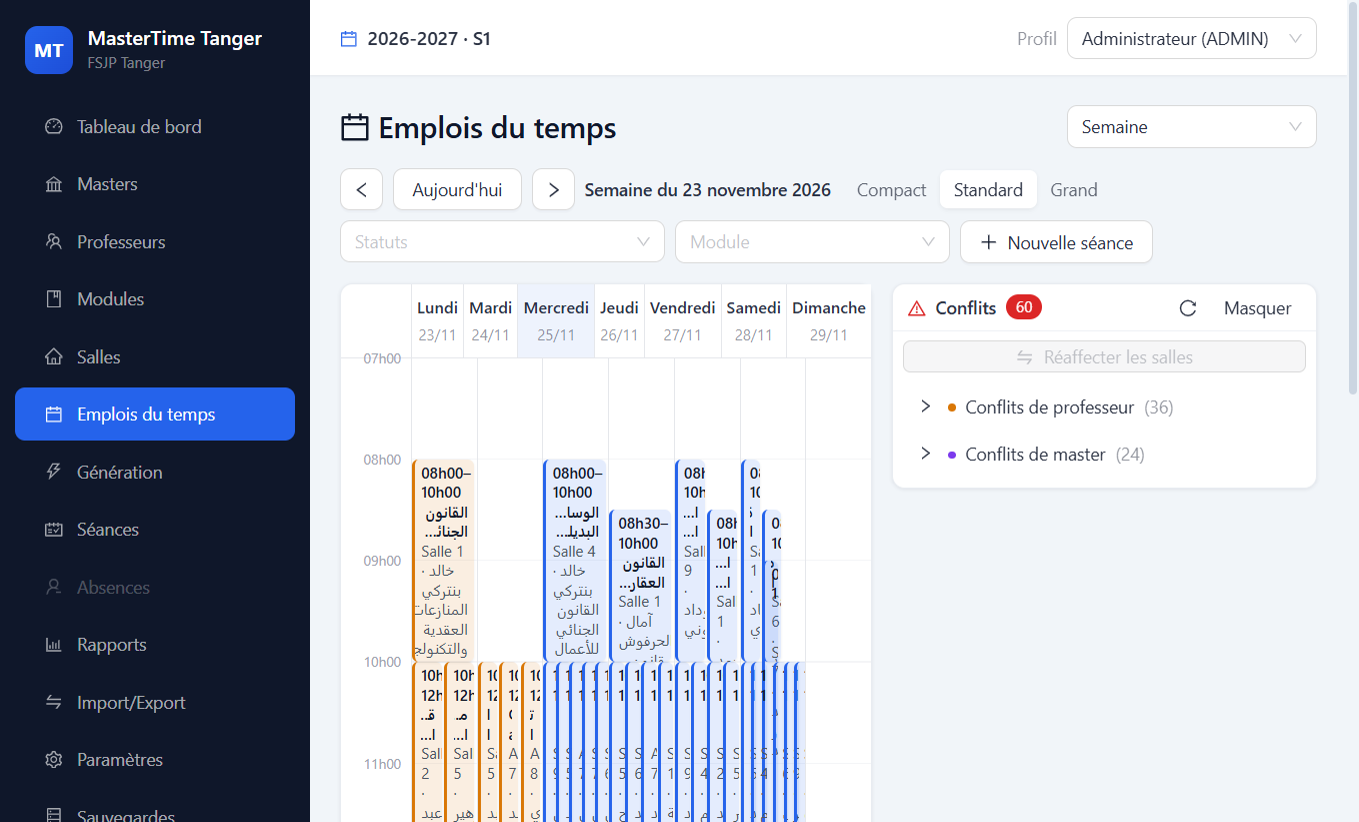
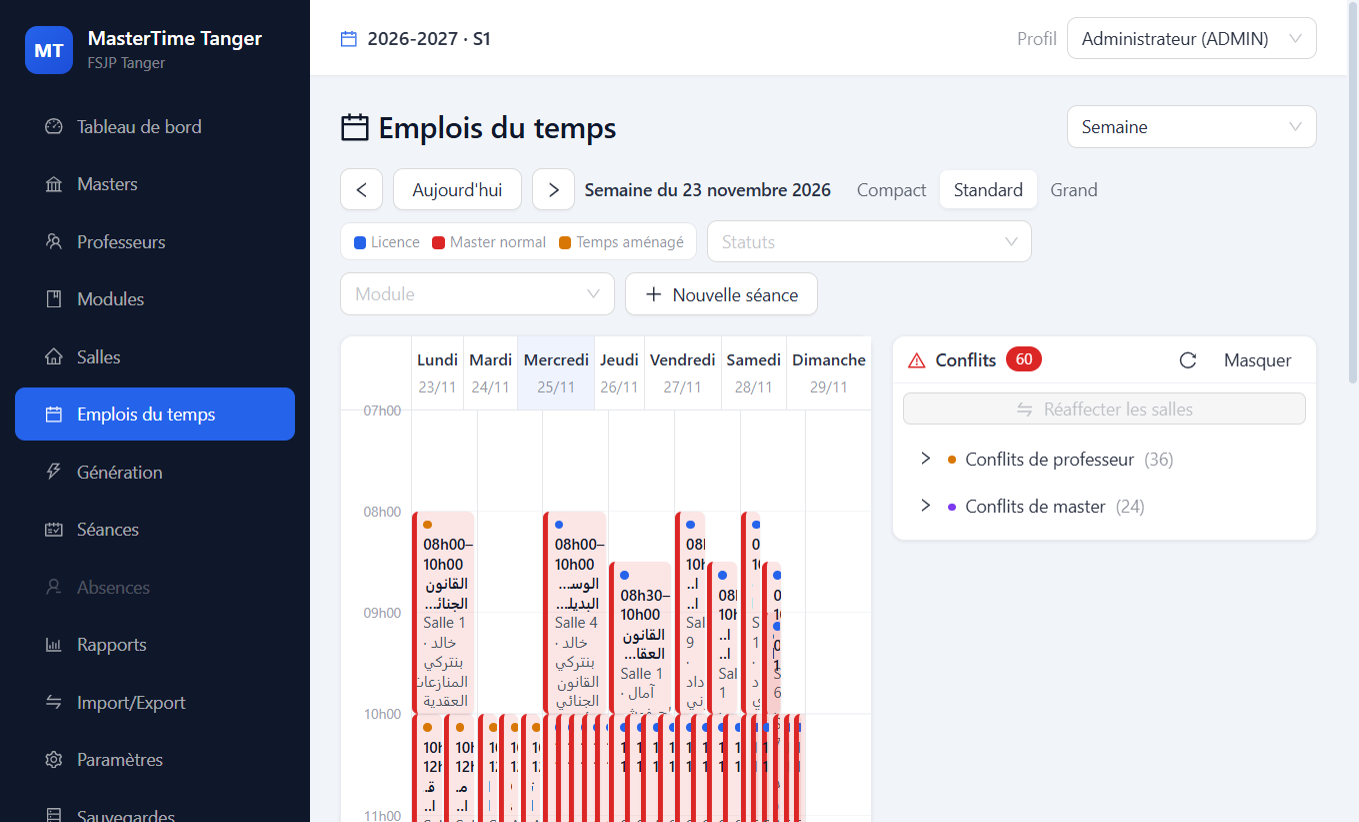
Code couleur par cycle dans l'EDT : Licence bleu, Master rouge, temps aménagé or — légende personnalisable
Generated with [Devin](https://devin.ai)

diff --git a/src/pages/TimetablePage.tsx b/src/pages/TimetablePage.tsx
@@ -17,11 +17,13 @@ import {
   Calendar,
   Card,
   Collapse,
+  ColorPicker,
   DatePicker,
   Empty,
   Form,
   Input,
   Modal,
+  Popover,
   Segmented,
   Select,
   Skeleton,
@@ -97,6 +99,39 @@ const ZOOM_SCALE: Record<ZoomLevel, number> = {
   standard: 1.35,
   large: 1.7,
 };
+
+/**
+ * Couleurs des cycles dans la grille hebdo — personnalisables,
+ * persistées en localStorage (préférence utilisateur, pas de schéma).
+ */
+interface TtColors {
+  licence: string;
+  normal: string;
+  amenage: string;
+}
+const DEFAULT_TT_COLORS: TtColors = {
+  licence: '#2563EB',
+  normal: '#DC2626',
+  amenage: '#D97706',
+};
+const TT_COLORS_KEY = 'mt.tt.colors';
+
+function loadTtColors(): TtColors {
+  try {
+    const raw = localStorage.getItem(TT_COLORS_KEY);
+    if (raw) {
+      const p = JSON.parse(raw) as Partial<TtColors>;
+      return {
+        licence: typeof p.licence === 'string' ? p.licence : '#2563EB',
+        normal: typeof p.normal === 'string' ? p.normal : '#DC2626',
+        amenage: typeof p.amenage === 'string' ? p.amenage : '#D97706',
+      };
+    }
+  } catch {
+    // JSON corrompu : retour aux couleurs par défaut.
+  }
+  return DEFAULT_TT_COLORS;
+}
 const HOURS = Array.from(
   { length: (DAY_END - DAY_START) / 60 + 1 },
   (_, i) => DAY_START + i * 60,
@@ -145,12 +180,14 @@ function SessionBlock(props: {
   session: Lane;
   highlight: boolean;
   highlightColor: string;
+  /** Couleur du cycle (master normal / temps aménagé). */
+  cycle: string;
   z: number;
   onClick: () => void;
 }): React.JSX.Element | null {
-  const { session: s, highlight, highlightColor, z, onClick } = props;
+  const { session: s, highlight, highlightColor, cycle, z, onClick } = props;
   const { t } = useTranslation();
-  const color = STATUS_COLORS[s.effective_status];
+  const statusColor = STATUS_COLORS[s.effective_status];
   // Clip à l'axe 07:00–20:00 (séance débordante ou hors axe).
   const startC = Math.max(s.start_min, DAY_START);
   const endC = Math.min(s.end_min, DAY_END);
@@ -176,19 +213,33 @@ function SessionBlock(props: {
         height,
         left: `${s.lane * widthPct}%`,
         width: `calc(${widthPct}% - 2px)`,
-        background: `${color}1F`,
-        borderLeft: `3px solid ${color}`,
+        background: `${cycle}1F`,
+        borderLeft: `4px solid ${cycle}`,
         borderRadius: 5,
         padding: '3px 5px',
         overflow: 'hidden',
         cursor: 'pointer',
         fontSize,
         lineHeight: 1.3,
+        opacity: s.effective_status === 'ANNULEE' ? 0.55 : 1,
         outline: highlight ? `2px solid ${highlightColor}` : 'none',
         zIndex: highlight ? 3 : 1,
       }}
     >
       <div style={{ fontWeight: 600, color: '#111827' }}>
+        {/* Pastille statut : la couleur du bloc code le cycle. */}
+        <span
+          title={t(`sessionStatus.${s.effective_status}`)}
+          style={{
+            display: 'inline-block',
+            width: 7,
+            height: 7,
+            borderRadius: '50%',
+            background: statusColor,
+            marginRight: 5,
+            verticalAlign: 1,
+          }}
+        />
         {minToHHMM(s.start_min)}–{minToHHMM(s.end_min)}
       </div>
       <div
@@ -232,9 +283,11 @@ function SessionBlock(props: {
 
 function OccupancyBlock(props: {
   occ: OccupancyRow;
+  /** Couleur du cycle Licence. */
+  color: string;
   z: number;
 }): React.JSX.Element | null {
-  const { occ, z } = props;
+  const { occ, color, z } = props;
   const startC = Math.max(occ.start_min, DAY_START);
   const endC = Math.min(occ.end_min, DAY_END);
   if (endC - startC <= 0) return null;
@@ -251,14 +304,14 @@ function OccupancyBlock(props: {
           height,
           left: 1,
           right: 1,
-          background: '#4B55631F',
-          borderLeft: '3px solid #4B5563',
+          background: `${color}1F`,
+          borderLeft: `4px solid ${color}`,
           borderRadius: 5,
           padding: '2px 4px',
           overflow: 'hidden',
           fontSize: z > 1 ? 12 : 11,
           lineHeight: 1.25,
-          color: '#4B5563',
+          color: '#374151',
           // Zone bloquée : ni création ni détail — pas le curseur « cell ».
           cursor: 'default',
         }}
@@ -279,6 +332,15 @@ export function TimetablePage(): React.JSX.Element {
   const [scope, setScope] = useState<Scope>('week');
   const [zoom, setZoom] = useState<ZoomLevel>('standard');
   const z = ZOOM_SCALE[zoom];
+  // Couleurs des cycles (Licence / Master normal / temps aménagé).
+  const [ttColors, setTtColors] = useState<TtColors>(loadTtColors);
+  useEffect(() => {
+    try {
+      localStorage.setItem(TT_COLORS_KEY, JSON.stringify(ttColors));
+    } catch {
+      // Stockage indisponible : les couleurs restent en mémoire.
+    }
+  }, [ttColors]);
   // Aperçu « créneau possible » suivant la souris sur la grille hebdo.
   const [ghost, setGhost] = useState<{
     dayKey: string;
@@ -876,7 +938,12 @@ export function TimetablePage(): React.JSX.Element {
               }}
             >
               {dayOcc.map((o) => (
-                <OccupancyBlock key={`occ-${o.id}`} occ={o} z={z} />
+                <OccupancyBlock
+                  key={`occ-${o.id}`}
+                  occ={o}
+                  color={ttColors.licence}
+                  z={z}
+                />
               ))}
               {daySessions.map((s) => (
                 <SessionBlock
@@ -885,6 +952,11 @@ export function TimetablePage(): React.JSX.Element {
                   highlight={conflictIds.has(s.id)}
                   highlightColor={
                     conflictKind ? KIND_COLORS[conflictKind] : KIND_COLORS.ROOM
+                  }
+                  cycle={
+                    s.master.temps_amenage === 1
+                      ? ttColors.amenage
+                      : ttColors.normal
                   }
                   z={z}
                   onClick={() => void openSession(s.id)}
@@ -1476,6 +1548,74 @@ export function TimetablePage(): React.JSX.Element {
               label: t(`timetable.zoom.${lvl}`),
             }))}
           />
+        )}
+        {isWeekGrid && (
+          <Popover
+            trigger="click"
+            placement="bottomRight"
+            title={t('timetable.legend.title')}
+            content={
+              <Space direction="vertical" size={8}>
+                {(['licence', 'normal', 'amenage'] as const).map((k) => (
+                  <div
+                    key={k}
+                    style={{
+                      display: 'flex',
+                      justifyContent: 'space-between',
+                      alignItems: 'center',
+                      gap: 16,
+                    }}
+                  >
+                    <Text style={{ fontSize: 12 }}>
+                      {t(`timetable.legend.${k}`)}
+                    </Text>
+                    <ColorPicker
+                      size="small"
+                      value={ttColors[k]}
+                      onChange={(c) =>
+                        setTtColors({ ...ttColors, [k]: c.toHexString() })
+                      }
+                    />
+                  </div>
+                ))}
+                <Button
+                  size="small"
+                  onClick={() => setTtColors(DEFAULT_TT_COLORS)}
+                >
+                  {t('timetable.legend.reset')}
+                </Button>
+              </Space>
+            }
+          >
+            <Space
+              size={10}
+              title={t('timetable.legend.customize')}
+              style={{
+                cursor: 'pointer',
+                padding: '4px 10px',
+                borderRadius: 8,
+                border: '1px solid #E5E7EB',
+                background: '#fff',
+              }}
+            >
+              {(['licence', 'normal', 'amenage'] as const).map((k) => (
+                <Space key={k} size={4}>
+                  <span
+                    style={{
+                      width: 10,
+                      height: 10,
+                      borderRadius: 3,
+                      background: ttColors[k],
+                      display: 'inline-block',
+                    }}
+                  />
+                  <Text type="secondary" style={{ fontSize: 12 }}>
+                    {t(`timetable.legend.${k}`)}
+                  </Text>
+                </Space>
+              ))}
+            </Space>
+          </Popover>
         )}
         {scope === 'freeRooms' && (
           <Select

diff --git a/electron/main/db/session.service.ts b/electron/main/db/session.service.ts
@@ -68,6 +68,7 @@ function sessionSelectSql(extraCols = ''): string {
   SELECT s.id,${extraCols ? `\n         ${extraCols},` : ''}
          s.date, s.start_min, s.end_min, s.status, s.comment,
          m.id AS master_id, m.code AS master_code, m.name AS master_name,
+         m.temps_amenage AS master_temps_amenage,
          mo.id AS module_id, mo.code AS module_code, mo.name AS module_name,
          p.id AS professor_id, p.full_name AS professor_name,
          r.id AS room_id, r.name AS room_name, r.capacity AS room_capacity,
@@ -99,6 +100,7 @@ interface SessionSqlRow {
   master_id: number;
   master_code: string;
   master_name: string;
+  master_temps_amenage: number;
   module_id: number;
   module_code: string;
   module_name: string;
@@ -119,7 +121,12 @@ function toSessionRow(r: SessionSqlRow, today: string): SessionRow {
     status: r.status,
     effective_status: effectiveSessionStatus(r.status, r.date, today),
     comment: r.comment,
-    master: { id: r.master_id, code: r.master_code, name: r.master_name },
+    master: {
+      id: r.master_id,
+      code: r.master_code,
+      name: r.master_name,
+      temps_amenage: r.master_temps_amenage,
+    },
     module: { id: r.module_id, code: r.module_code, name: r.module_name },
     professor: { id: r.professor_id, full_name: r.professor_name },
     room: { id: r.room_id, name: r.room_name, capacity: r.room_capacity },

diff --git a/shared/types.ts b/shared/types.ts
@@ -478,7 +478,13 @@ export interface SessionRow {
   /** AD-7 : PREVUE + date < aujourd'hui → 'NON_ENCORE_REALISEE'. */
   effective_status: EffectiveSessionStatus;
   comment: string | null;
-  master: { id: number; code: string; name: string };
+  master: {
+    id: number;
+    code: string;
+    name: string;
+    /** 1 = master « temps aménagé » (payant) — couleur dédiée dans l'EDT. */
+    temps_amenage: number;
+  };
   module: { id: number; code: string; name: string };
   professor: { id: number; full_name: string };
   room: { id: number; name: string; capacity: number | null };

diff --git a/tests/calendrier.test.ts b/tests/calendrier.test.ts
@@ -299,7 +299,12 @@ describe('listSessionsWeek', () => {
     expect(res.ok).toBe(true);
     if (!res.ok) return;
     const s = res.data.find((x) => x.id === past)!;
-    expect(s.master).toEqual({ id: f.masterId, code: 'M-T', name: 'Master T' });
+    expect(s.master).toEqual({
+      id: f.masterId,
+      code: 'M-T',
+      name: 'Master T',
+      temps_amenage: 0,
+    });
     expect(s.module.code).toBe('MOD-T');
     expect(s.professor.full_name).toBe('Prof Un');
     expect(s.room).toEqual({ id: f.roomId, name: 'Salle A', capacity: 40 });
